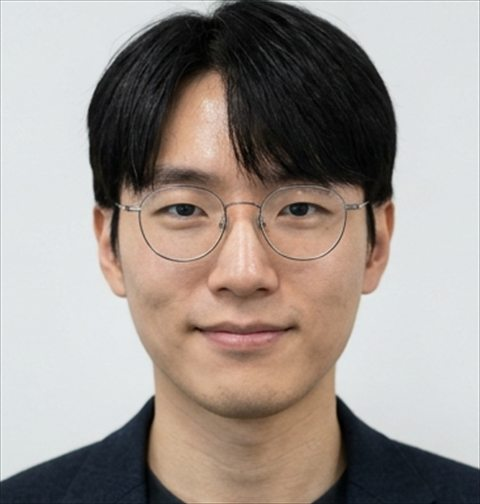
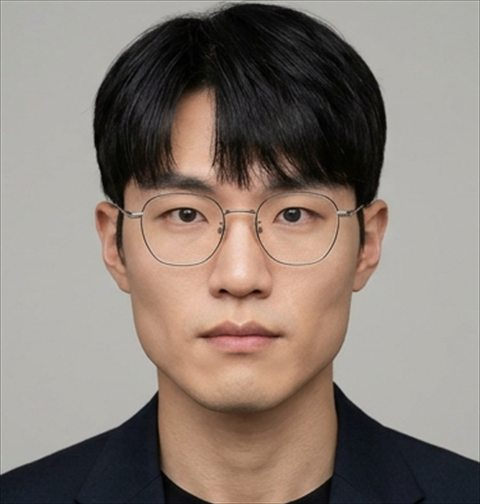
Regenerate EA 1-6 portraits with distinct facial identities and fix mobile button clipping

diff --git a/index.html b/index.html
@@ -352,7 +352,7 @@
       width: 100%;
     }
     .target-card {
-      width: 126px;
+      width: 108px;
       background: var(--card);
       border: 2.5px solid var(--accent-2);
       border-radius: 13px;
@@ -404,7 +404,7 @@
       margin: 0 auto;
     }
     .stage.is-target4 .choices-4 {
-      max-width: 306px;
+      max-width: 278px;
       gap: 6px;
     }
     .face-card {
